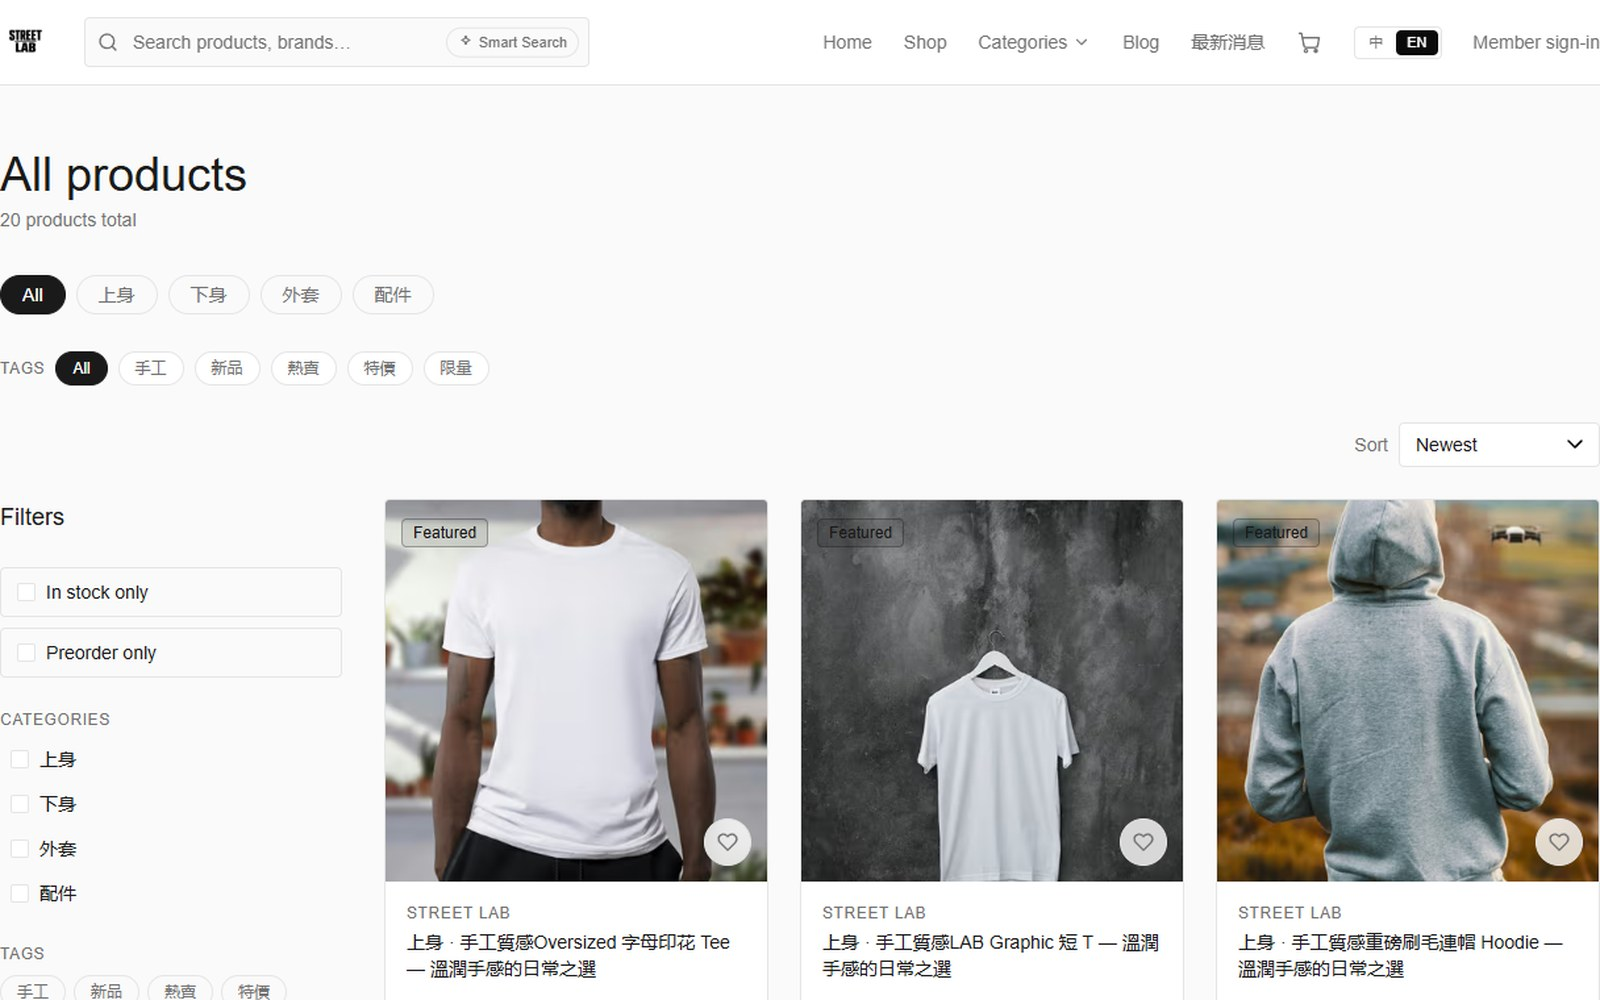
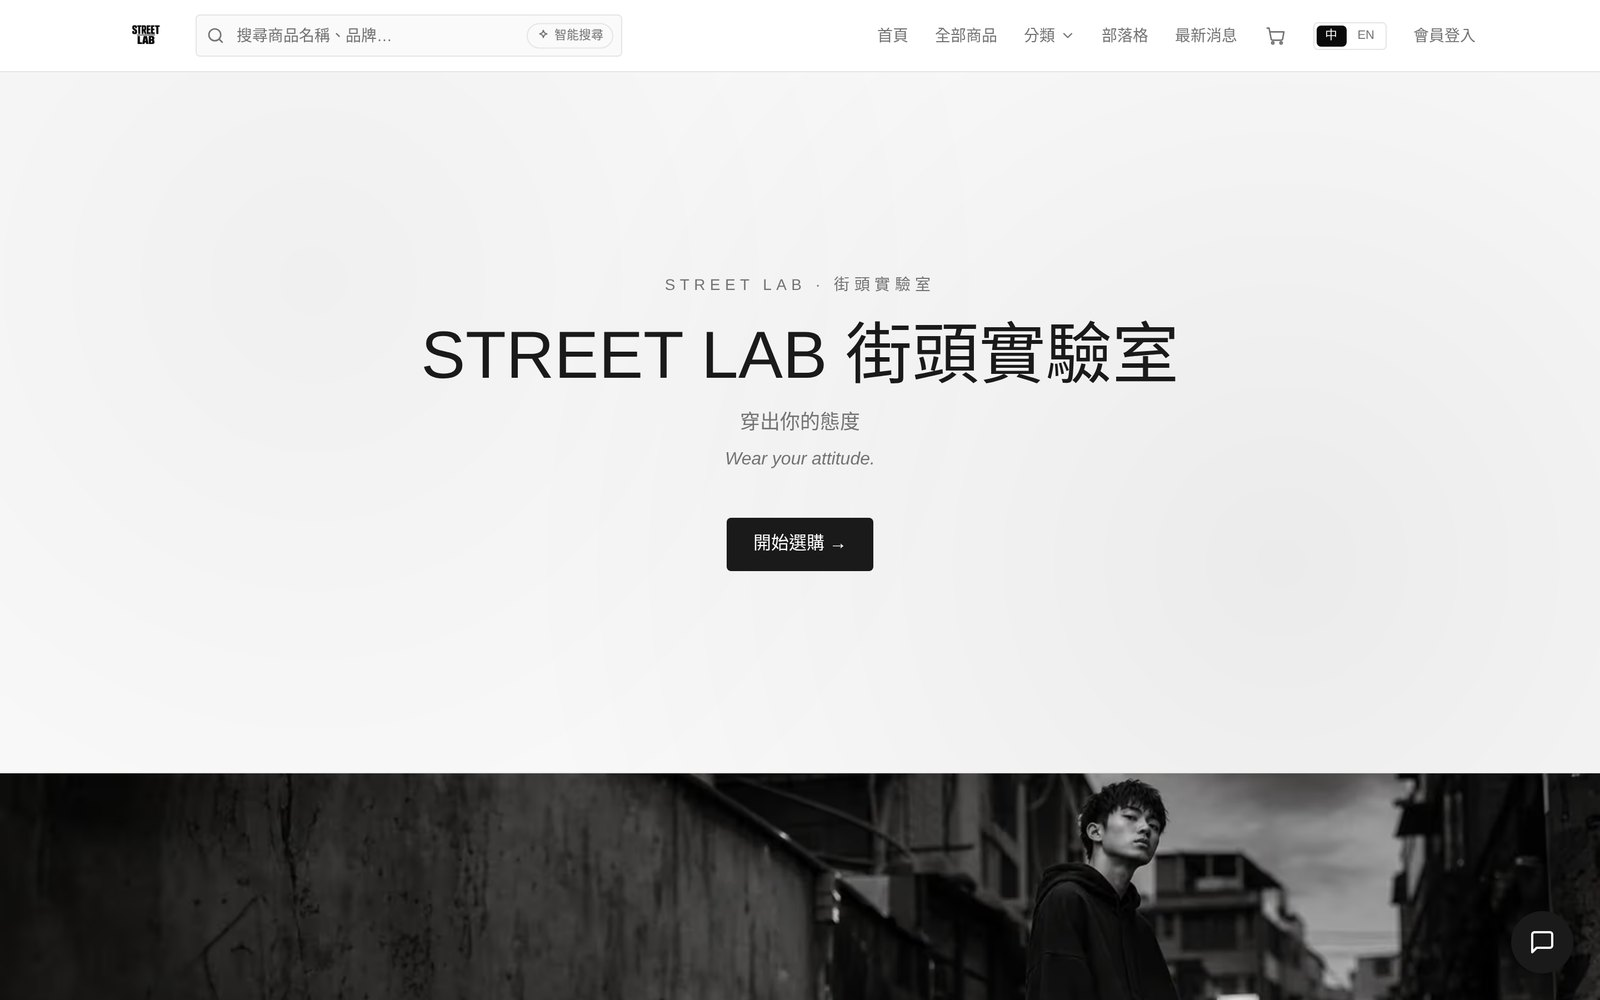
案例標籤改為 Live Demo，電商卡片改用首頁主視覺

diff --git a/index.html b/index.html
@@ -114,7 +114,7 @@
         <p class="section-label" data-i18n="index.work.label">精選案例</p>
         <a href="/ecommerce-case.html" class="project-card project-card--featured">
           <div class="project-card__info">
-            <span class="project-card__live-badge">案例研究</span>
+            <span class="project-card__live-badge">Live Demo</span>
             <h2 class="project-card__name" data-i18n="portfolio.c1.title">品牌電商系統</h2>
             <p class="project-card__desc" data-i18n="portfolio.c1.desc">有自己品牌的網路商店，不用靠蝦皮抽成。客人結帳、超商取貨、點數集點，你在後台一眼就看清楚。</p>
             <div class="project-card__tags">
@@ -128,7 +128,7 @@
           <a href="/reservation-case.html" class="project-card">
             <div class="project-card__image"><img src="/assets/work/reservation.jpg" alt="Frame & Light Studio 服務業預約系統 — 實際 Demo 畫面" width="600" height="400" loading="lazy"></div>
             <div class="project-card__info">
-              <span class="project-card__live-badge">案例研究</span>
+              <span class="project-card__live-badge">Live Demo</span>
               <h3 class="project-card__name" data-i18n="portfolio.c7.title">服務業預約系統</h3>
               <p class="project-card__desc" data-i18n="portfolio.c7.desc">客人自己上網選時段、付訂金，你不用再 LINE 一句一句回。預約滿了自動關閉，系統會主動提醒客人。</p>
               <div class="project-card__tags"><span class="tag">線上預約</span><span class="tag">LINE 通知</span><span class="tag">金流</span></div>
@@ -139,7 +139,7 @@
           <a href="/reservation-case.html#demo" class="project-card">
             <div class="project-card__image"><img src="/assets/work/dashboard.jpg" alt="營運管理後台 — 實際 Demo 畫面（今日概覽、預約列表、帳務）" width="600" height="400" loading="lazy"></div>
             <div class="project-card__info">
-              <span class="project-card__live-badge">案例研究</span>
+              <span class="project-card__live-badge">Live Demo</span>
               <h3 class="project-card__name" data-i18n="portfolio.c6.title">營運管理後台</h3>
               <p class="project-card__desc" data-i18n="portfolio.c6.desc">整合預約、行事曆、器材庫存、帳務報表與 LINE 客戶訊息的營運後台。</p>
               <div class="project-card__tags"><span class="tag">Dashboard</span><span class="tag">B2B</span><span class="tag">帳務報表</span></div>

diff --git a/portfolio.html b/portfolio.html
@@ -89,7 +89,7 @@
 
       <a href="/ecommerce-case.html" class="project-card--featured">
         <div class="project-card__info">
-          <span class="project-card__live-badge">案例研究</span>
+          <span class="project-card__live-badge">Live Demo</span>
           <h2 class="project-card__name" data-i18n="portfolio.c1.title">品牌電商系統</h2>
           <p class="project-card__desc" data-i18n="portfolio.c1.desc">
             有自己品牌的網路商店，不用靠蝦皮抽成。客人結帳、超商取貨、點數集點，你在後台一眼就看清楚。
@@ -112,7 +112,7 @@
             <img src="/assets/work/reservation.jpg" alt="Frame & Light Studio 服務業預約系統 — 實際 Demo 畫面" width="600" height="400" loading="lazy" />
           </div>
           <div class="project-card__info">
-            <span class="project-card__live-badge">案例研究</span>
+            <span class="project-card__live-badge">Live Demo</span>
             <h3 class="project-card__name" data-i18n="portfolio.c7.title">服務業預約系統</h3>
             <p class="project-card__desc" data-i18n="portfolio.c7.desc">客人自己上網選時段、付訂金，你不用再 LINE 一句一句回。預約滿了自動關閉，系統會主動提醒客人。</p>
             <div class="project-card__tags"><span class="tag">線上預約</span><span class="tag">LINE 通知</span><span class="tag">金流</span></div>

diff --git a/reservation-case.html b/reservation-case.html
@@ -72,7 +72,7 @@
   <!-- ── HERO ── -->
   <section class="hero">
     <div class="container">
-      <p class="hero__eyebrow">案例研究 · 預約 &amp; 訂房系統</p>
+      <p class="hero__eyebrow">Live Demo · 預約 &amp; 訂房系統</p>
       <h1 class="hero__title">服務業預約系統<br><span>讓客人自己預約，你少回一百句 LINE。</span></h1>
       <p class="hero__subtitle">攝影棚、美業、診所、教室、民宿都適用。客人自己上網選時段、線上付訂金，預約滿了自動關閉，系統主動提醒，後台一頁看清所有預約、庫存與帳務。</p>
       <div class="hero__cta">

diff --git a/ecommerce-case.html b/ecommerce-case.html
@@ -72,7 +72,7 @@
   <!-- ── HERO ── -->
   <section class="hero">
     <div class="container">
-      <p class="hero__eyebrow">案例研究 · 電商 &amp; 金流系統</p>
+      <p class="hero__eyebrow">Live Demo · 電商 &amp; 金流系統</p>
       <h1 class="hero__title">品牌電商系統<br><span>有自己的店，不用靠平台抽成。</span></h1>
       <p class="hero__subtitle">完整的品牌網路商店：客人結帳、超商取貨、會員點數集點，你在後台一眼看清訂單、庫存與營收。多金流、多物流可串接，從第一間店到品牌規模都接得上。</p>
       <div class="hero__cta">
